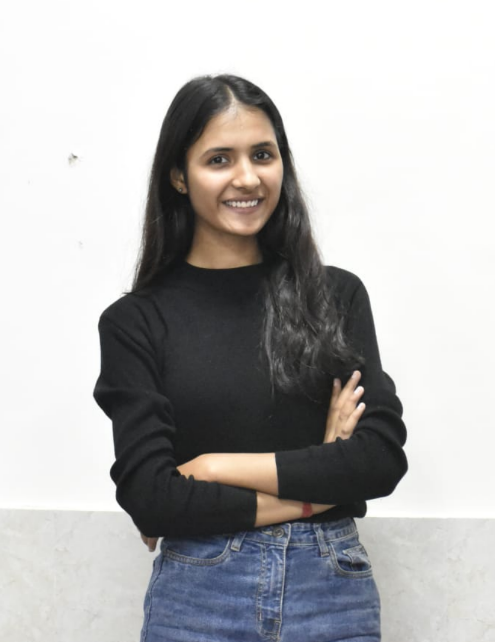
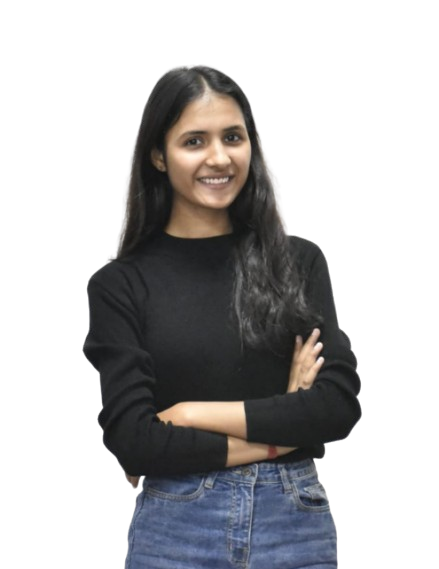
Background Removal

diff --git a/src/data/councilData.js b/src/data/councilData.js
@@ -8,7 +8,7 @@ export const coreCouncilData = {
     name: 'Devansh Kumar Dhangar',
     role: 'President\nCybersecurity Lead',
     subtitle: '',
-    image: '/Council_Member/Devansh_Kumar_Dhangar.jpg',
+    image: '/Council_Member/Devansh_Kumar_Dhangar.png',
     linkedin: 'https://www.linkedin.com/in/devansh-kumar-dhangar-837b55223?utm_source=share&utm_campaign=share_via&utm_content=profile&utm_medium=android_app',
     github: 'https://github.com/Roccodevil',
     bio: 'As President of STAR, Devansh leads the society with vision and dedication, driving innovation and collaboration across all technical domains. He oversees strategic initiatives, coordinates between different teams, and ensures that STAR continues to push the boundaries of technology and automation.',
@@ -20,7 +20,7 @@ export const coreCouncilData = {
       name: 'Akshat Gupta',
       role: 'Vice President\nIoT Lead',
       subtitle: '',
-      image: '/Council_Member/Akshat_Gupta.jpeg',
+      image: '/Council_Member/Akshat_Gupta.png',
       linkedin: 'https://www.linkedin.com/in/akshat-gupta-88b129325',
       github: 'https://github.com/akshat-gupta-111',
       bio: 'As Vice President of STAR, Akshat plays a crucial role in supporting the society\'s mission and coordinating various technical initiatives. He works closely with team leads to ensure smooth execution of projects and events while fostering a culture of innovation and learning.',
@@ -31,7 +31,7 @@ export const coreCouncilData = {
       name: 'Keerti',
       role: 'Secretary\nOperations Lead',
       subtitle: '',
-      image: '/Council_Member/Keerti.jpeg',
+      image: '/Council_Member/Keerti.png',
       linkedin: 'http://www.linkedin.com/in/keerti-yaduvanshi-4813b9280',
       github: 'https://github.com/Keerti-12',
       bio: 'As Secretary and Operations Lead of TARS, Keerti manages the administrative operations and ensures effective communication across the society. She maintains documentation, coordinates meetings, and handles outreach activities while supporting the technical teams in their initiatives.',
@@ -55,7 +55,7 @@ export const coreCouncilData = {
       name: 'Anmol Sharma',
       role: 'Synergy',
       subtitle: '',
-      image: '/Council_Member/Anmol_Sharma.jpeg',
+      image: '/Council_Member/Anmol_Sharma.png',
       linkedin: 'https://www.linkedin.com/in/anmol-sharma-26a67b324?utm_source=share&utm_campaign=share_via&utm_content=profile&utm_medium=android_app',
       github: 'https://github.com/AnmolSharma1711',
       bio: 'As Synergy Lead, Anmol works to foster collaboration and coordination between different teams within TARS. He ensures smooth communication, facilitates cross-functional projects, and helps create synergistic partnerships that amplify the impact of collective efforts.',
@@ -66,7 +66,7 @@ export const coreCouncilData = {
       name: 'Utkarsh Agrawal',
       role: 'E-Sports/Gaming Lead',
       subtitle: '',
-      image: '/Council_Member/Utkarsh_Agrawal.jpeg',
+      image: '/Council_Member/Utkarsh_Agrawal.png',
       linkedin: 'https://www.linkedin.com/in/utkarsh-agrawal-508192326/',
       github: 'https://github.com/Utkarsh45650',
       bio: 'As E-Sports/Gaming Lead, Utkarsh bridges the gap between gaming and technology. He organizes competitive gaming events, explores game development technologies, and leads projects involving game AI, physics engines, and interactive simulations.',
@@ -77,7 +77,7 @@ export const coreCouncilData = {
       name: 'Kushal Soni',
       role: 'Competitive Programming Lead',
       subtitle: '',
-      image: '/Council_Member/Kushal_Soni.jpeg',
+      image: '/Council_Member/Kushal_Soni.png',
       linkedin: 'https://www.linkedin.com/in/soni-kushal/',
       github: 'https://github.com/kushal-soni01',
       bio: 'As Competitive Programming Lead, Kushal spearheads Internet of Things projects and smart automation systems. He mentors students in embedded systems, sensor integration, and cloud connectivity, developing innovative solutions for smart homes and industrial automation.',
@@ -110,7 +110,7 @@ export const coreCouncilData = {
       name: 'Kushagra Agrawal',
       role: 'Outreach Lead',
       subtitle: '',
-      image: '/Council_Member/Kushagra_Agrawal.jpeg',
+      image: '/Council_Member/Kushagra_Agrawal.png',
       linkedin: 'http://www.linkedin.com/in/kushagra-agrawal-87b193326',
       github: 'https://github.com/Kushagra-SethG',
       bio: 'As Outreach Lead, Kushagra manages external communications, partnerships, and community engagement for STAR. He coordinates with industry partners, organizes collaborative events, and promotes the society\'s achievements across various platforms.',
@@ -121,11 +121,33 @@ export const coreCouncilData = {
       name: 'Rudraksha Sharma',
       role: 'Aeromodelling Lead',
       subtitle: '',
-      image: '/Council_Member/Rudraksha.jpeg',
+      image: '/Council_Member/Rudraksha.png',
       linkedin: 'https://www.linkedin.com/in/mr-rudraksha/',
       github: 'https://github.com/rudraksha-sh',
       bio: 'As Aeromodelling Lead, Rudraksha guides teams in designing and building aircraft models and drones. He leads workshops on aerodynamics, flight control systems, and UAV technology, fostering innovation in aerial robotics and autonomous flight systems.',
       expertise: ['Aeromodelling', 'Drone Technology', 'Aerodynamics', 'Flight Control', 'UAV Systems', 'RC Aircraft']
+    },
+    {
+      id: 22,
+      name: 'Pranav Jain',
+      role: 'Team Head',
+      subtitle: '',
+      image: '/Council_Member/Pranav_Jain.png',
+      linkedin: '',
+      github: '',
+      bio: 'As a Team Head at TARS, Pranav contributes to the society\'s technical initiatives and helps drive innovation in various projects. He works closely with team members to foster a collaborative environment and ensure successful project delivery.',
+      expertise: ['Technical Leadership', 'Project Management', 'Team Coordination', 'Innovation']
+    },
+    {
+      id: 23,
+      name: 'Kshitij Singh',
+      role: 'Team Head',
+      subtitle: '',
+      image: '/Council_Member/Kshitij_Singh.png',
+      linkedin: '',
+      github: '',
+      bio: 'As a Team Head at TARS, Kshitij plays a key role in leading technical projects and mentoring team members. He brings technical expertise and leadership skills to help advance the society\'s mission in technology and automation.',
+      expertise: ['Technical Leadership', 'Team Development', 'Project Execution', 'Mentorship']
     }
   ]
 };

diff --git a/src/data/mentorsData.js b/src/data/mentorsData.js
@@ -7,7 +7,7 @@ export const patronData = {
   name: 'Dr. Gourav Bathla',
   role: 'Patron',
   subtitle: '',
-  image: '/Mentors/Gaurav_Sir.jpeg',
+  image: '/Mentors/Gaurav_Sir.png',
   linkedin: 'https://www.linkedin.com/in/dr-gourav-bathla-b2155913/',
   bio: 'Dr. Gourav Bathla serves as the distinguished patron of STAR, providing visionary leadership and strategic direction to the society. With extensive experience in computer science and engineering education, he has been instrumental in fostering an environment of innovation and research excellence. His commitment to advancing technology education has empowered countless students to pursue cutting-edge projects in automation, AI, and robotics.',
   expertise: ['Academic Leadership', 'Innovation Strategy', 'Technology Education', 'Research Guidance']
@@ -19,7 +19,7 @@ export const mentorsData = [
     id: 2,
     name: 'Dr. Saurabh Tewari',
     role: 'Faculty Mentor',
-    image: '/Mentors/Saurabh_Sir.jpeg',
+    image: '/Mentors/Saurabh_Sir.png',
     linkedin: 'https://www.linkedin.com/in/dr-saurabh-tewari-106597a3/',
     bio: 'Dr. Saurabh Tewari is a dedicated faculty mentor specializing in robotics, automation, and intelligent systems. His expertise in control systems and mechatronics has guided numerous student projects to successful completion. He actively encourages hands-on learning and practical implementation, helping students bridge theoretical concepts with real-world applications in autonomous systems and industrial automation.',
     expertise: ['Robotics', 'Automation', 'Control Systems', 'Mechatronics']
@@ -28,7 +28,7 @@ export const mentorsData = [
     id: 3,
     name: 'Dr. Shivanshu Upadhyay',
     role: 'Faculty Mentor',
-    image: '/Mentors/Shivanshu_Sir.jpeg',
+    image: '/Mentors/Shivanshu_Sir.png',
     linkedin: 'https://www.linkedin.com/in/shivanshu-upadhyay-752588201/',
     bio: 'Dr. Shivanshu Upadhyay brings extensive knowledge in IoT, embedded systems, and sensor networks to STAR. His passion for emerging technologies and practical problem-solving has inspired students to develop innovative IoT solutions for smart cities and industrial applications. He emphasizes project-based learning and encourages students to explore the intersection of hardware and software in creating connected intelligent systems.',
     expertise: ['IoT', 'Embedded Systems', 'Sensor Networks', 'Smart Systems']
